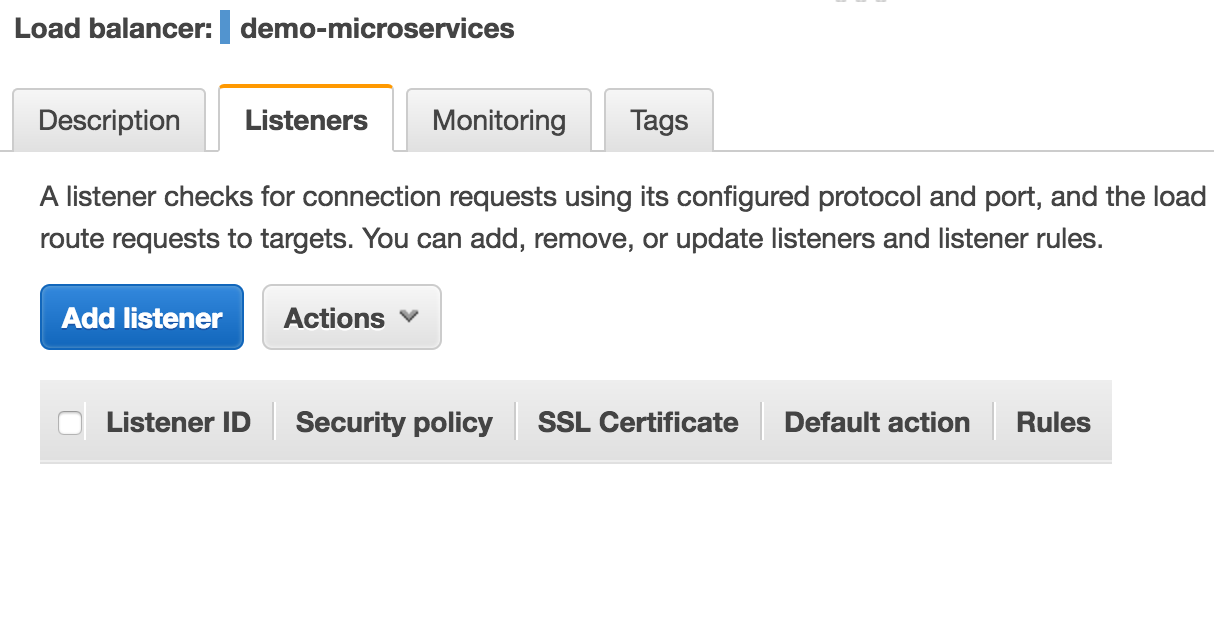
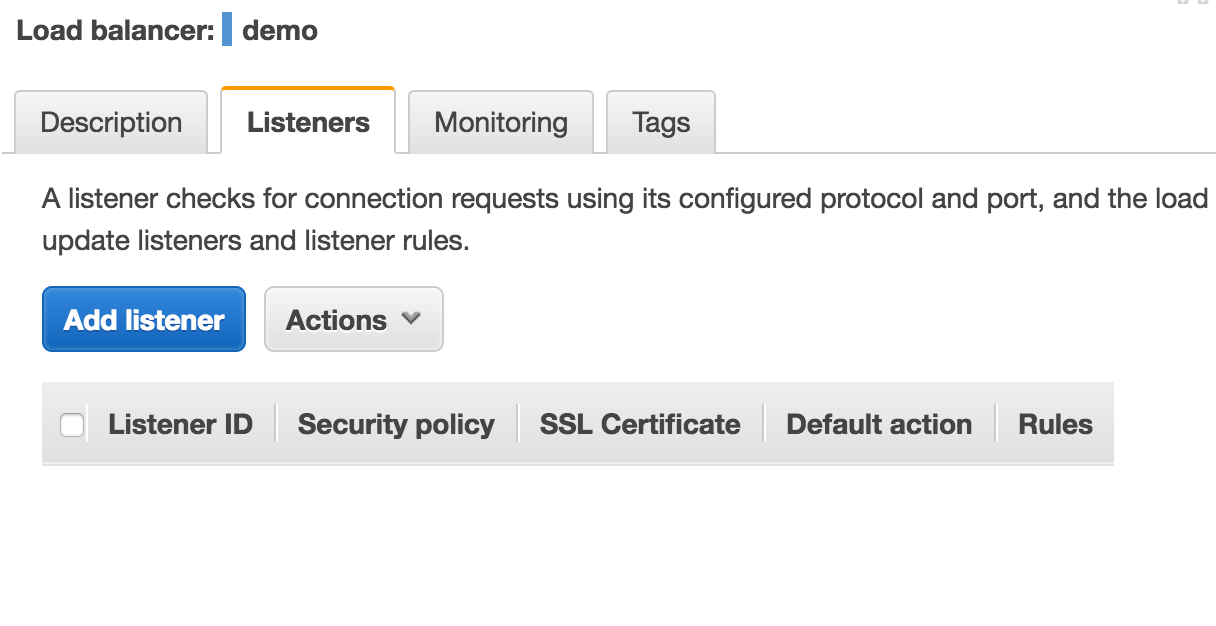
clean up

diff --git a/Step-5.md b/Step-5.md
@@ -1,16 +1,13 @@
 ## Step 5 - Clean Up
 
 #### 1. Turn off your services
-Start cleaning up by spinning down each of the four services you have running across your two clusters.
-* Monolith Cluster
-  * api
-* Microservices Cluster
-  * posts
-  * threads
-  * users
+Start cleaning up by spinning down each of the services you have running on your cluster.
+* `posts`
+* `threads`
+* `users`
 
 **Update Service**
-* Open your cluster and click into a service.
+* Open the cluster and click into a service.
 * Select `Update`
 * Change `Number of tasks` to `0`
 * Select `Update Service`
@@ -18,24 +15,20 @@ Start cleaning up by spinning down each of the four services you have running ac
 
 **Delete Service**
 * Select `Delete` on the service console page and confirm.
-* You will get a confirmation message and see your cluster empty.
+* You will get a confirmation message and your cluster will be empty.
 
 ![5.1 - Service Delete Confirmation](images/5.1-service.png)
 
-Repeat these steps for each of your services across both clusters.
+Repeat these steps for each of your services on the cluster.
 
 ![5.1 - Empty Cluster](images/5.1-cluster.png)
 
 ---
 #### 2. Delete listeners
 * Navigate to the [Load Balancer section of the EC2 Console](https://console.aws.amazon.com/ec2/v2/home?#LoadBalancers:)
-* Select a load balancer and select the **Listeners** tab.
-* Select the listener, then `Actions` > `Delete`
+* Select your load balancer `demo` and select the **Listeners** tab.
+* Select the listener, then `Actions` > `Delete`.
 * Confirm delete. Your listener should be gone.
-
-**Repeat this step for both load balancers.**
-* demo-monolith
-* demo-microservices
 
 ![5.2 - Delete Listeners](images/5.2-listener.png)
 
@@ -49,17 +42,14 @@ Repeat these steps for each of your services across both clusters.
 ![5.3 - Delete Target Groups](images/5.3-targets.png)
 
 ---
-#### 4. Rollback your Cloudformation Stack
+#### 4. Rollback your AWS Cloudformation Stack
 * Navigate to the CloudFormation console: https://console.aws.amazon.com/cloudformation/home?
-* Check the box next to one of the Cloudformation stacks you created earlier
-  * Nodejs-Monolith
-  * Nodejs-Microservices
+* Check the box next to the Cloudformation stack you created earlier: `BreakTheMonolith-Demo`.
 * Select `Actions` > `Delete Stack`
 * Confirm Delete.
 * The stack status should change to `DELETE_IN_PROGRESS`
-* Repeat for the remaining stack.
 
-**WARNING! Be sure to delete both stacks. Leaving a stack running will result in charges on your AWS account.**
+**WARNING! Leaving a stack running will result in charges on your AWS account.**
 
 ![image 5.4 - Delete CF](images/5.4-stacks.png)
 

diff --git a/Step-4.md b/Step-4.md
@@ -41,9 +41,9 @@ Or with JSON:
 }
 ```
 **Repeat this step to create a task definition for each service**
-* posts
-* threads
-* users
+* `posts`
+* `threads`
+* `users`
 
 ---
 #### 2. Configure the Application Load Balancer: Target Groups
